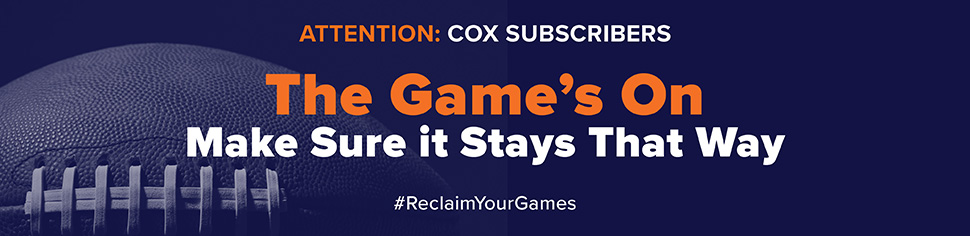
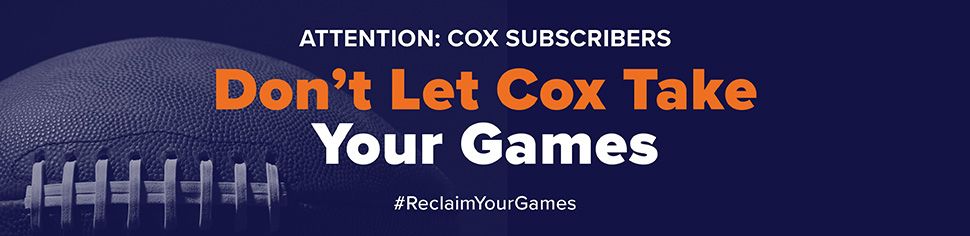
retr edits

diff --git a/cox/index-gopublic.html b/cox/index-gopublic.html
@@ -44,10 +44,10 @@
 </head>
 <body>
     <main>
-        <section class="fbrow"><img src="images/go-public-banner.jpg" alt="Attention COX subscribers - The Game's On. Make sure it stays that way! #ReclaimYourGames" title="Attention COX subscribers - The Game's On. Make sure it stays that way! #ReclaimYourGames"/></section>
+        <section class="fbrow"><img src="images/go-public-banner.jpg" alt="Attention COX subscribers - Don't let Cox take your games! #ReclaimYourGames" title="Attention COX subscribers - Don't let Cox take your games! #ReclaimYourGames"/></section>
         <p class="textbold">
-         Cox could block your access to the biggest NFL, College and NBA  games, the best programming and your most trusted resource for local news, weather and information.</p>
-        <p class="textbold" style="font-weight: bold; text-align: center;">Don't let Cox decide what you can watch.</p>
+         By refusing to reach a reasonable agreement to keep our station on their service, Cox could block your access to the biggest NFL, College and NBA games, the best programming and your most trusted resource for local news, weather and information.</p>
+        <h2 class="textbold" style="font-weight: bold; text-align: center;">Don't let Cox decide what you can watch.</h2>
 
     </section>
     <section class="nostationrow">
@@ -57,13 +57,6 @@
           <a href="https://www.facebook.com/coxcommunications/" target="_blank"><div class="button">Post to Facebook</div></a>
           <a href="https://x.com/CoxComm" target="_blank"><div class="button">Post to X</div></a>
         </div>   
-    </section>
-
-    <section class="whattoknow">
-     <h2>What you should know:</h2>
-      <div class="buttonknow">Cox is refusing to agree on a fair rate to carry our channel on its service.</div>
-      <div class="buttonknow">We have reached hundreds of fair deals with distributors who value our content and loyal viewers.</div>
-      <div class="buttonknow">We will advocate for your right to watch your favorite station on Cox.</div>
     </section>
 
 
@@ -76,7 +69,7 @@
               <h2 class="question">Q: Why is Cox threatening to take away my local station? </h2>
             </div>
             <div class="answer">
-              <p>A: COX may remove your local station because they refuse to reach a reasonable agreement to keep our station on their service. While COX charges you a fee each month, they are refusing to pay us a fair rate for the live sports, local news, weather, sports and entertainment you want.</p>
+              <p>A: COX may remove your local station because they refuse to reach a reasonable agreement to keep our station on their service. While COX charges you a fee each month, they are refusing to pay us a fair rate for the live sports, local news, weather and entertainment you want.</p>
 
               <p>We hope COX understands how important our local station is for you and works to resolve this issue as soon as possible.</p>
               

diff --git a/cox/styles.css b/cox/styles.css
@@ -41,7 +41,7 @@ div,
 p {
     box-sizing: border-box;
     font-family: proximanova !important;
-    font-size: 18px;
+    font-size: 22px;
 }
 
   .button {
@@ -218,7 +218,7 @@ h1 {
 
 h2 {
     max-width: 900px;
-    font-size: 20px;
+    font-size: 24px;
     font-weight: bold;
 }
 
@@ -396,6 +396,13 @@ main img {
 
 .textbold a:hover {
     text-decoration: underline;
+}
+
+.textbold h2 {
+    font-weight: 800;
+    font-size: 26px;
+    line-height: 1.2;
+    margin: 20px;
 }
 
 .video-container {
